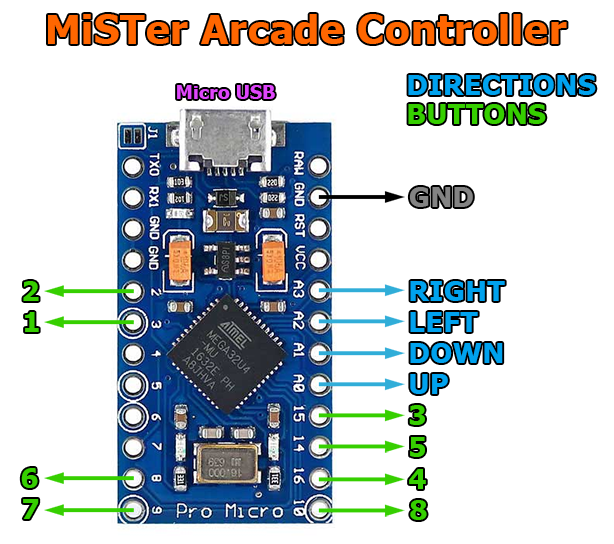
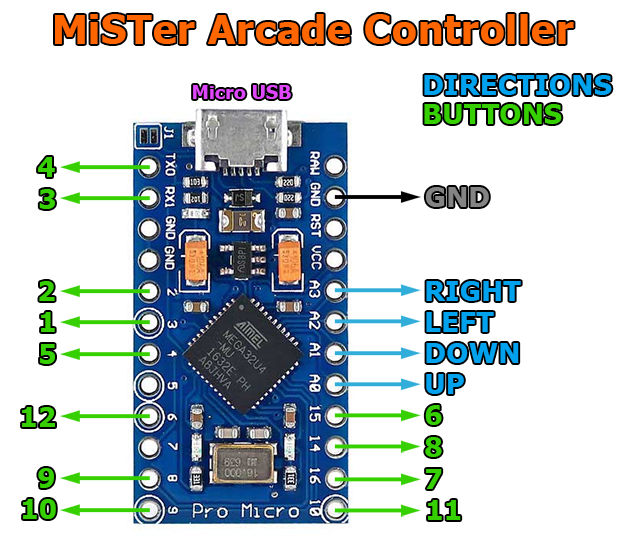
Support for up to 12 buttons

diff --git a/MiSTerArcadeController/Gamepad.cpp b/MiSTerArcadeController/Gamepad.cpp
@@ -35,12 +35,16 @@ static const uint8_t _hidReportDescriptor[] PROGMEM = {
     
       0x05, 0x09,                       // USAGE_PAGE (Button)
       0x19, 0x01,                       // USAGE_MINIMUM (Button 1)
-      0x29, 0x08,                       // USAGE_MAXIMUM (Button 8)
+      0x29, 0x0C,                       // USAGE_MAXIMUM (Button 12)
       0x15, 0x00,                       // LOGICAL_MINIMUM (0)
       0x25, 0x01,                       // LOGICAL_MAXIMUM (1)
-      0x95, 0x08,                       // REPORT_COUNT (8)
+      0x95, 0x0C,                       // REPORT_COUNT (12)
       0x75, 0x01,                       // REPORT_SIZE (1)
       0x81, 0x02,                       // INPUT (Data,Var,Abs)
+
+      0x95, 0x01,                       // REPORT_COUNT (1) ; pad out the bits into a number divisible by 8
+      0x75, 0x04,                       // REPORT_SIZE (4)
+      0x81, 0x03,                       // INPUT (Const,Var,Abs)
     
       0x05, 0x01,                       // USAGE_PAGE (Generic Desktop)
       0x09, 0x01,                       // USAGE (pointer)

diff --git a/MiSTerArcadeController/Gamepad.h b/MiSTerArcadeController/Gamepad.h
@@ -26,28 +26,11 @@
 
 #include "HID.h"
 
-// The numbers after colon are bit fields, meaning how many bits the field uses.
-// Remove those if there are problems
 typedef struct {
-  union 
-  {
-    struct {
-      bool  b0: 1 ;
-      bool  b1: 1 ;
-      bool  b2: 1 ;
-      bool  b3: 1 ;
-      bool  b4: 1 ;
-      bool  b5: 1 ;
-      bool  b6: 1 ;
-      bool  b7: 1 ; 
-    };
-    uint8_t buttons;
-  };
+  uint16_t buttons;
   int8_t X  ;
   int8_t Y  ;  
-  
 } GamepadReport;
-
 
 class Gamepad_
 {  
